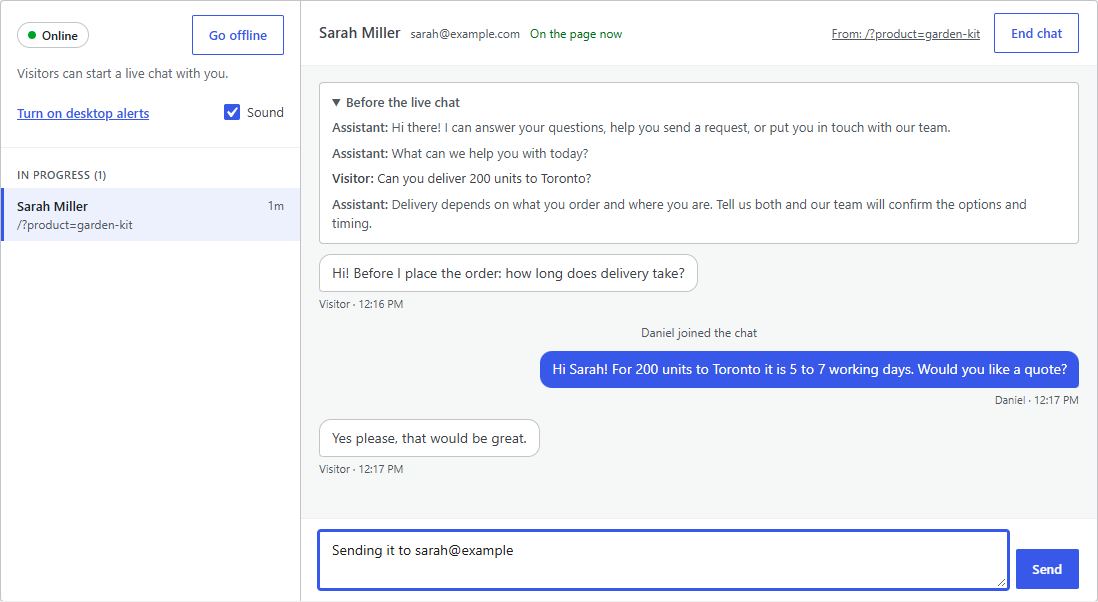
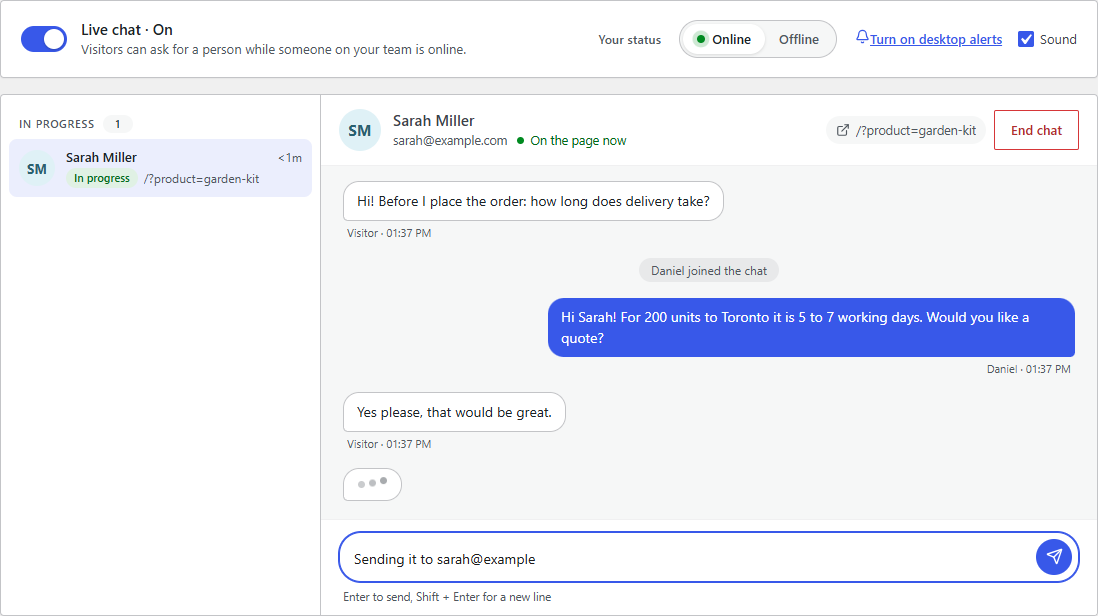
Aluvo Chat 2.2.0: new question types, conditional steps, live chat agents

diff --git a/README.md b/README.md
@@ -10,7 +10,7 @@
 </p>
 
 <p align="center">
-  <b>Free 2.1.0</b> · <b>Pro add-on 2.1.0</b> · WordPress 5.3+ · PHP 7.2+ · Follows your WordPress language
+  <b>Free 2.2.0</b> · <b>Pro add-on 2.2.0</b> · WordPress 5.3+ · PHP 7.2+ · Follows your WordPress language
 </p>
 
 ---
@@ -39,6 +39,8 @@ The free plugin is complete on its own. Pro is an add-on that installs beside it
 | | Free | Pro |
 |---|:---:|:---:|
 | Unlimited forms and requests | ✓ | ✓ |
+| Checkboxes, yes or no, ratings, sliders, appointments, consent and payment links in forms | ✓ | ✓ |
+| Steps that appear only when an earlier answer matches | ✓ | ✓ |
 | Contact buttons and bottom bar with brand icons | ✓ | ✓ |
 | Requests saved in WordPress and emailed | ✓ | ✓ |
 | Colour and gradient themes, button shapes, six border types, inside colour or gradient, phone settings | ✓ | ✓ |
@@ -114,6 +116,14 @@ Five animations come free: Spinning border, Floating, Ripple rings, Comet and He
 
 Forms, steps and a preview side by side. New forms start from a template, each form gets an icon from a gallery, and every field explains itself.
 
+Fourteen kinds of question, all free: multiple choice, checkboxes, yes or no, typed answers, form fields, star ratings, sliders for a budget or any number, appointments that offer only free days and times from your hours, a consent box with a link to your policy, a payment or link button, quantities, and product steps. Any step can be set to appear only when an earlier answer matches, so a form asks for a date only if the visitor has a deadline.
+
+<p align="center">
+  <img src="media/form-booking.png" width="40%" alt="An appointment step: free days across the top, free times below">
+  &nbsp;
+  <img src="media/form-rating.png" width="40%" alt="A rating step with five stars and words at each end">
+</p>
+
 <p align="center">
   <img src="media/form-templates.png" width="49%" alt="Templates for a new form">
   <img src="media/form-icons.png" width="49%" alt="The form icon gallery">
@@ -130,6 +140,14 @@ While someone on your team is online, visitors see "Chat with us now" above the 
   &nbsp;
   <img src="media/live-chat-visitor.png" width="40%" alt="A visitor chatting with a team member, who is typing">
 </p>
+
+Visitors give their name and email first, and are told you reply as soon as possible during your working hours.
+
+<p align="center">
+  <img src="media/live-chat-details.png" width="40%" alt="Before connecting: the visitor's name and email, and when to expect a reply">
+</p>
+
+Support staff do not need to be administrators: give them the Live chat agent role and they see the Live chat screen and nothing else, landing on it when they log in. Editors, shop managers or any other role can be allowed too, and a Live chat item in the admin bar shows how many visitors are waiting. One switch at the top of the screen turns live chat off for everyone.
 
 Set working hours, or just switch yourself online. If nobody answers in time, the visitor is offered your contact buttons and you get an email. The chat carries on as the visitor moves between pages, and conversations are covered by WordPress's Export and Erase Personal Data tools.
 

diff --git a/CHANGELOG.md b/CHANGELOG.md
@@ -1,5 +1,13 @@
 # Changelog
 
+## Free 2.2.0 and Pro 2.2.0: smarter forms, live chat agents
+
+- **Seven new kinds of question, free:** checkboxes, yes or no, rating, slider, appointment, consent and a payment or link button.
+- **Conditional steps:** show a step only when an earlier answer matches.
+- **New templates:** Custom form, Pay link, Step by step, Poll, Custom fields and We will contact you.
+- **Optional name and email** for polls and feedback, and contact channels are optional everywhere.
+- **Live chat (Pro):** a redesigned screen with one on/off switch, name and email before a chat starts, a reply-time promise with your working hours, a Live chat agent role for support staff, and an admin bar item.
+
 ## Free 2.1.0 and Pro 2.1.0: live chat
 
 - **Live chat (Pro).** While someone on your team is online, visitors see "Chat with us now" and talk to a person right in the chat window. Answer from Aluvo Chat → Live chat, with what the visitor told the chat shown first, sound and desktop alerts, typing indicators, working hours and an email when nobody answers in time.
